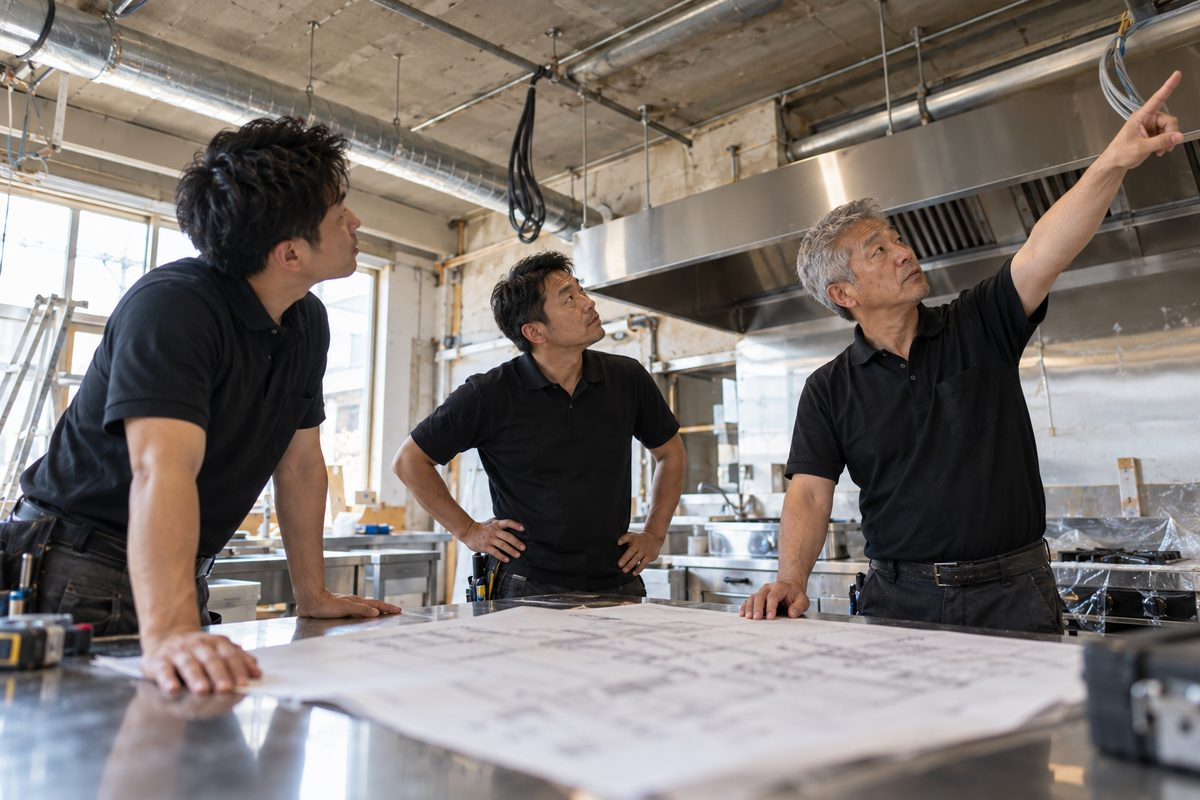
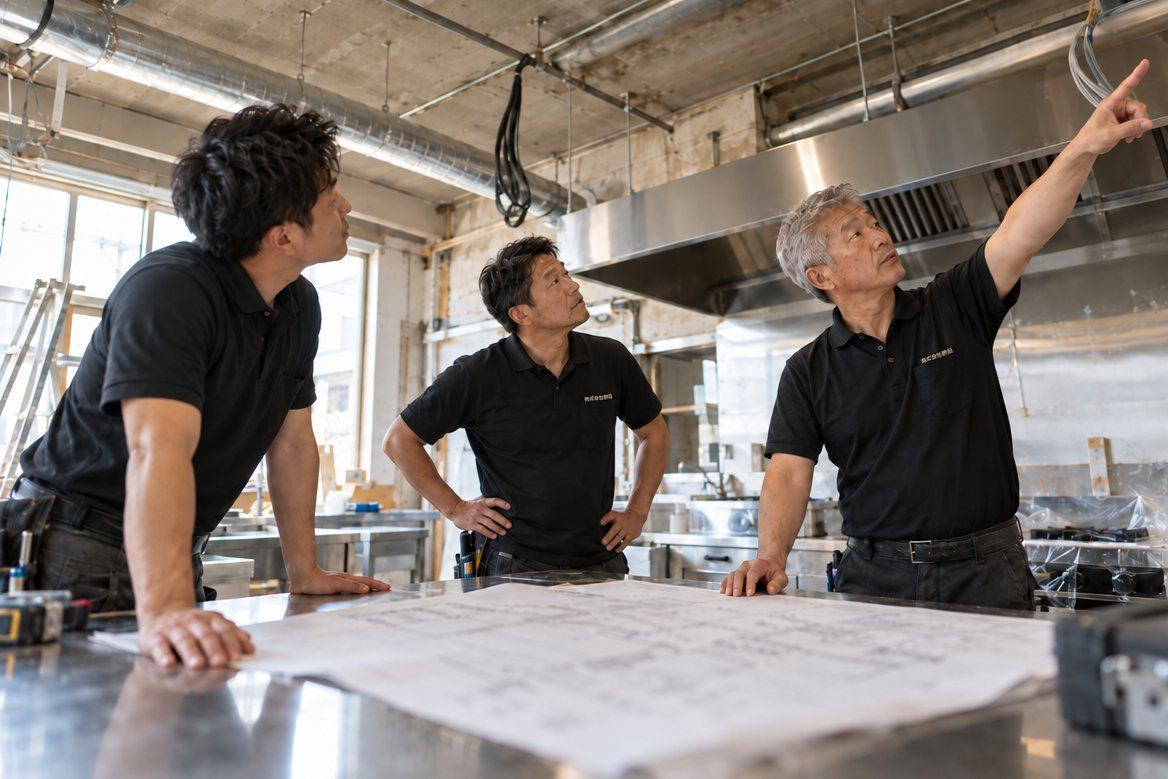
コンセプト「自社一貫対応」の写真を、刺しゅう入りの版に入れ替え（上寄りで3:2に切り、指先を残す）
Claude-Session: https://claude.ai/code/session_01DdXC7ESWouB9X5foU46cUt

diff --git a/app/pages/concept.php b/app/pages/concept.php
@@ -1,6 +1,6 @@
 <?php
 // 現行サイトの人物AI画像（ai-*.jpg）は、2026-10-22 に Boss が選んだ写真へすべて差し替え済み。
-// 差し替え済み：自社一貫対応 → concept-team.jpg（Boss 選定 2026-10-22）、施工後のアフターフォロー → staff-check.jpg（同日。胸に社名の刺しゅうを入れた版に入れ替え）
+// 差し替え済み：自社一貫対応 → concept-team.jpg（Boss 選定 2026-10-22。のち刺しゅう入りの版に入れ替え、4:3 を上寄りで3:2に切り指先を残す）、施工後のアフターフォロー → staff-check.jpg（同日。胸に社名の刺しゅうを入れた版に入れ替え）
 // 文章は現行ページ https://duct-noda.com/concept/ の内容をすべて移したもの（2026-10-21、Boss「情報量が足りない」を受けて戻した）。
 render('page-head', [
     'label' => 'COMMITMENT',
